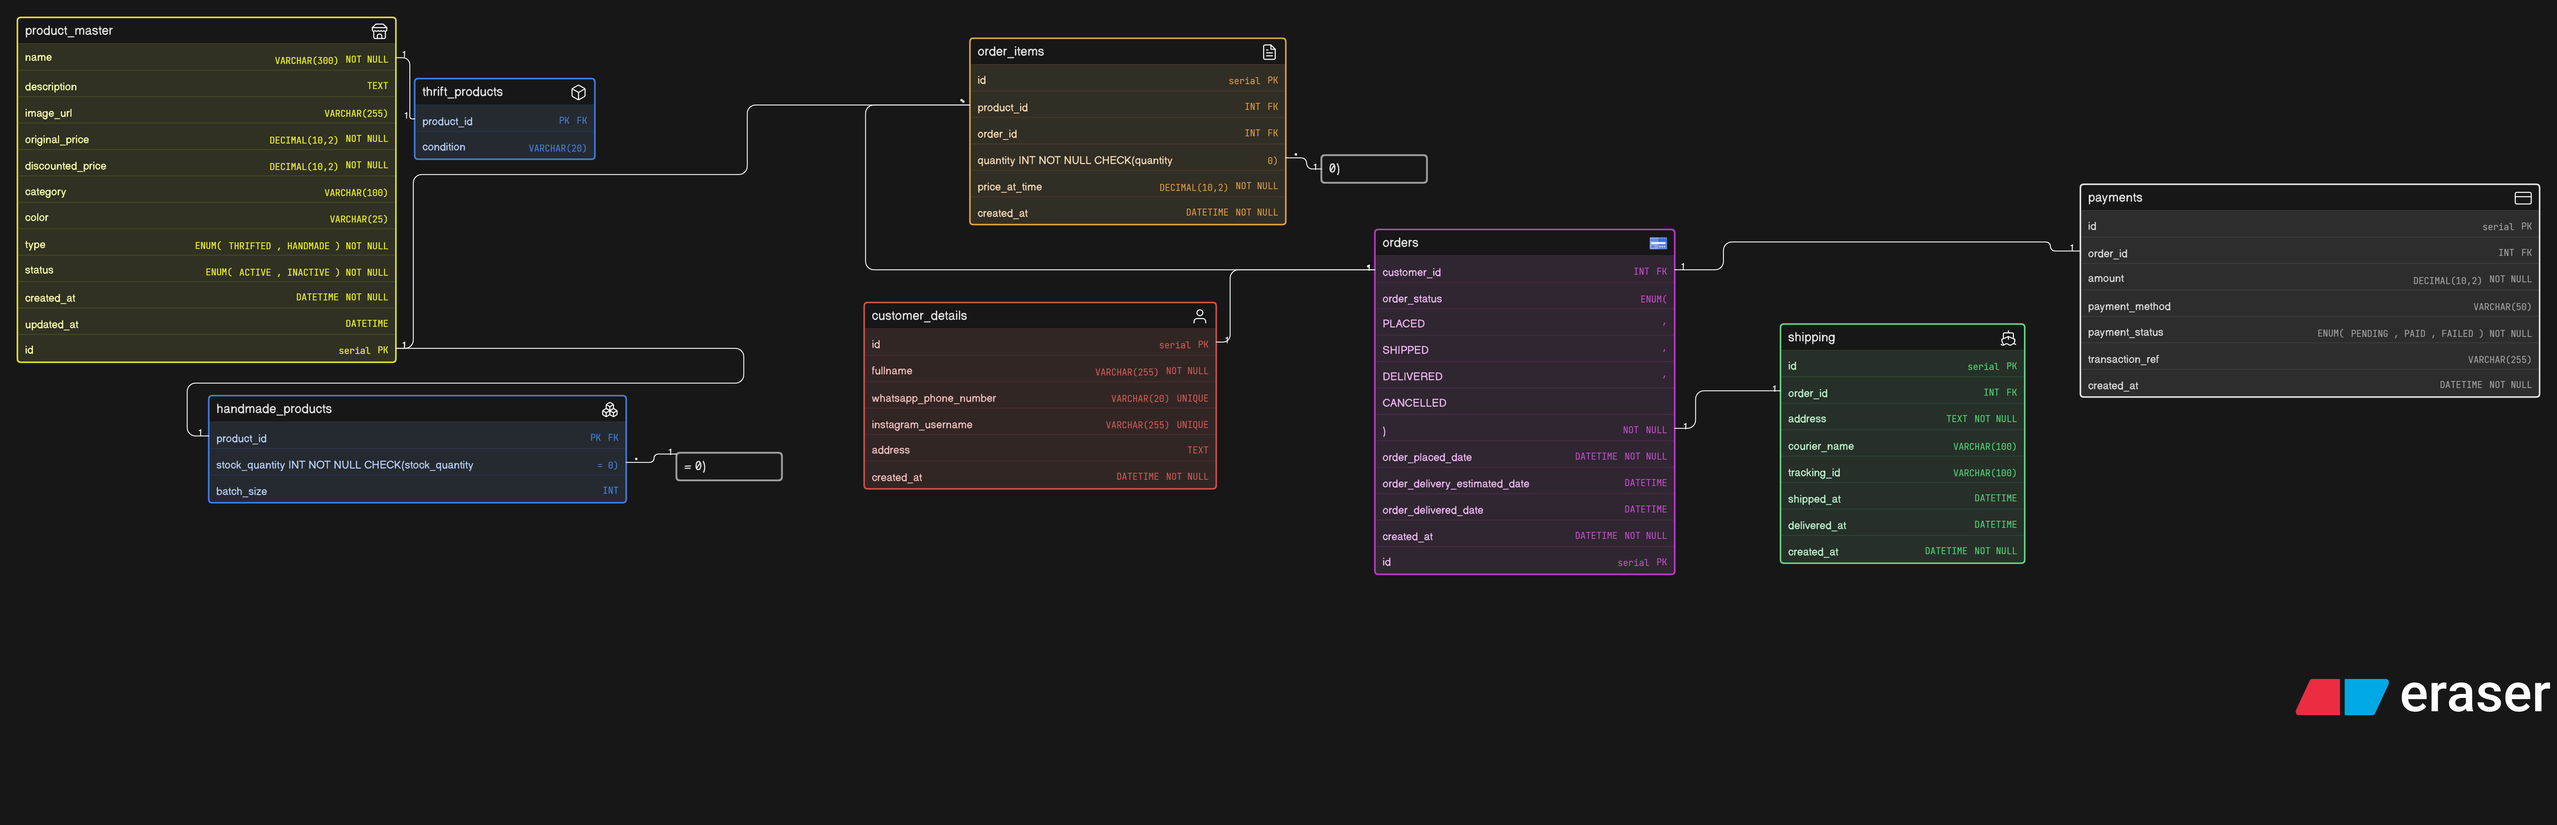
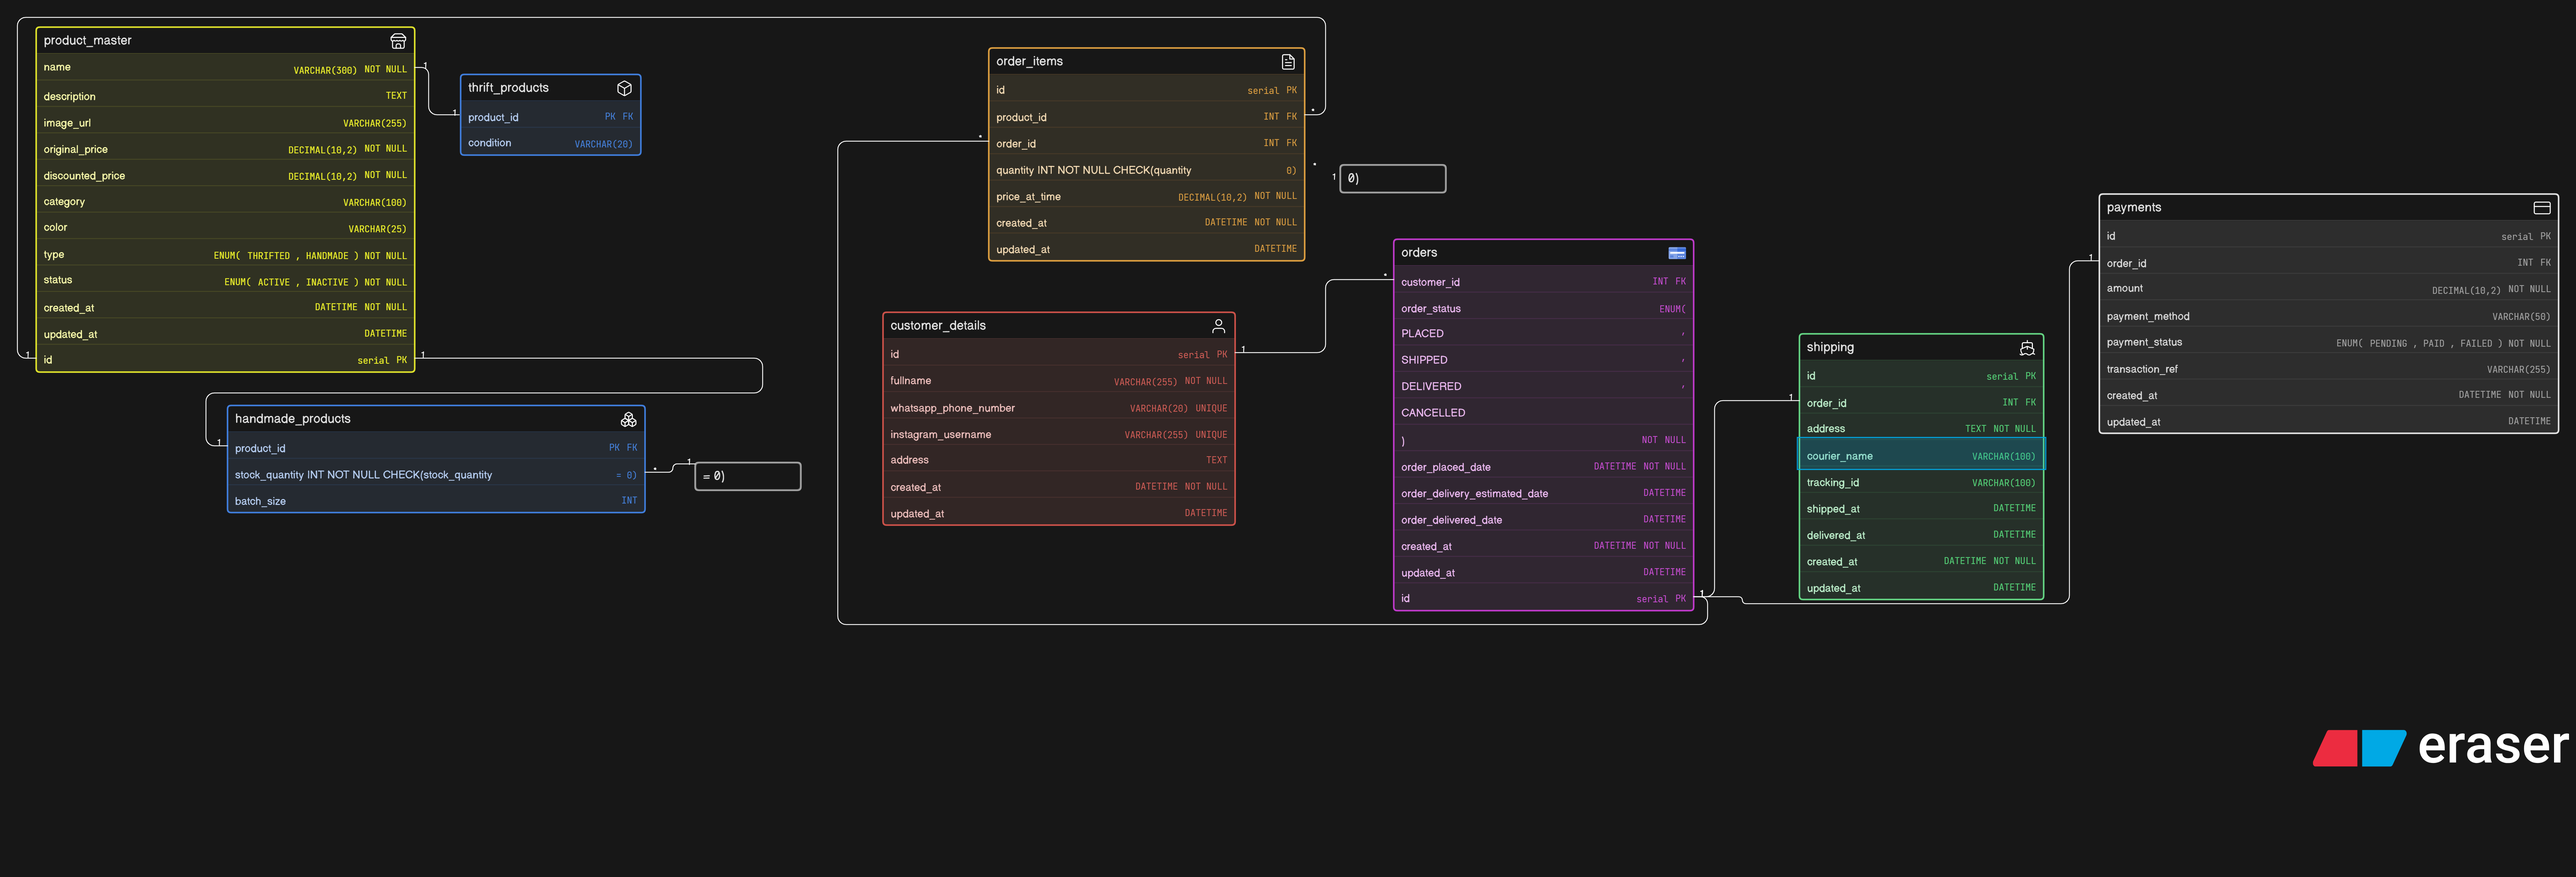
feat: add updated_at field to multiple entities in ER diagram

diff --git a/instagram-store/instagram-store-er-code.md b/instagram-store/instagram-store-er-code.md
@@ -34,6 +34,7 @@ customer_details[icon:user, color: Red]{
   instagram_username VARCHAR(255) UNIQUE
   address TEXT
   created_at DATETIME NOT NULL
+  updated_at DATETIME
 }
 
 orders[icon:gcp-billing, color: Purple]{
@@ -49,6 +50,7 @@ orders[icon:gcp-billing, color: Purple]{
   order_delivery_estimated_date DATETIME
   order_delivered_date DATETIME
   created_at DATETIME NOT NULL
+  updated_at DATETIME
 }
 
 order_items[icon:receipt, color: Orange]{
@@ -58,6 +60,7 @@ order_items[icon:receipt, color: Orange]{
   quantity INT NOT NULL CHECK(quantity > 0)
   price_at_time DECIMAL(10,2) NOT NULL
   created_at DATETIME NOT NULL
+  updated_at DATETIME
 }
 
 payments[icon:payment, color: Black]{
@@ -68,6 +71,7 @@ payments[icon:payment, color: Black]{
   payment_status ENUM("PENDING","PAID","FAILED") NOT NULL
   transaction_ref VARCHAR(255)
   created_at DATETIME NOT NULL
+  updated_at DATETIME
 }
 
 shipping[icon:ship, color: Green]{
@@ -79,6 +83,7 @@ shipping[icon:ship, color: Green]{
   shipped_at DATETIME
   delivered_at DATETIME
   created_at DATETIME NOT NULL
+  updated_at DATETIME
 }
 
 
